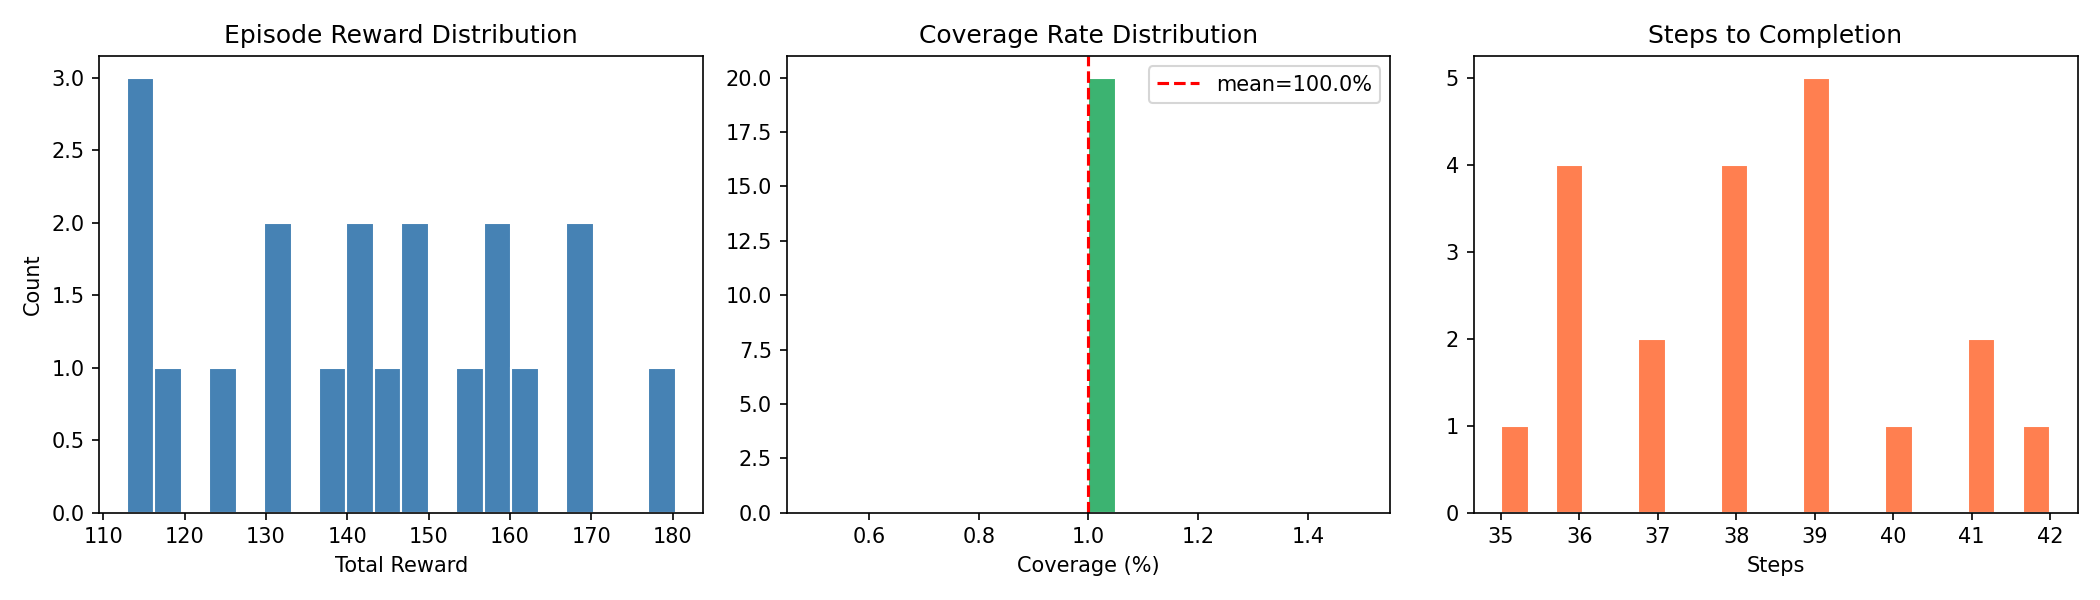
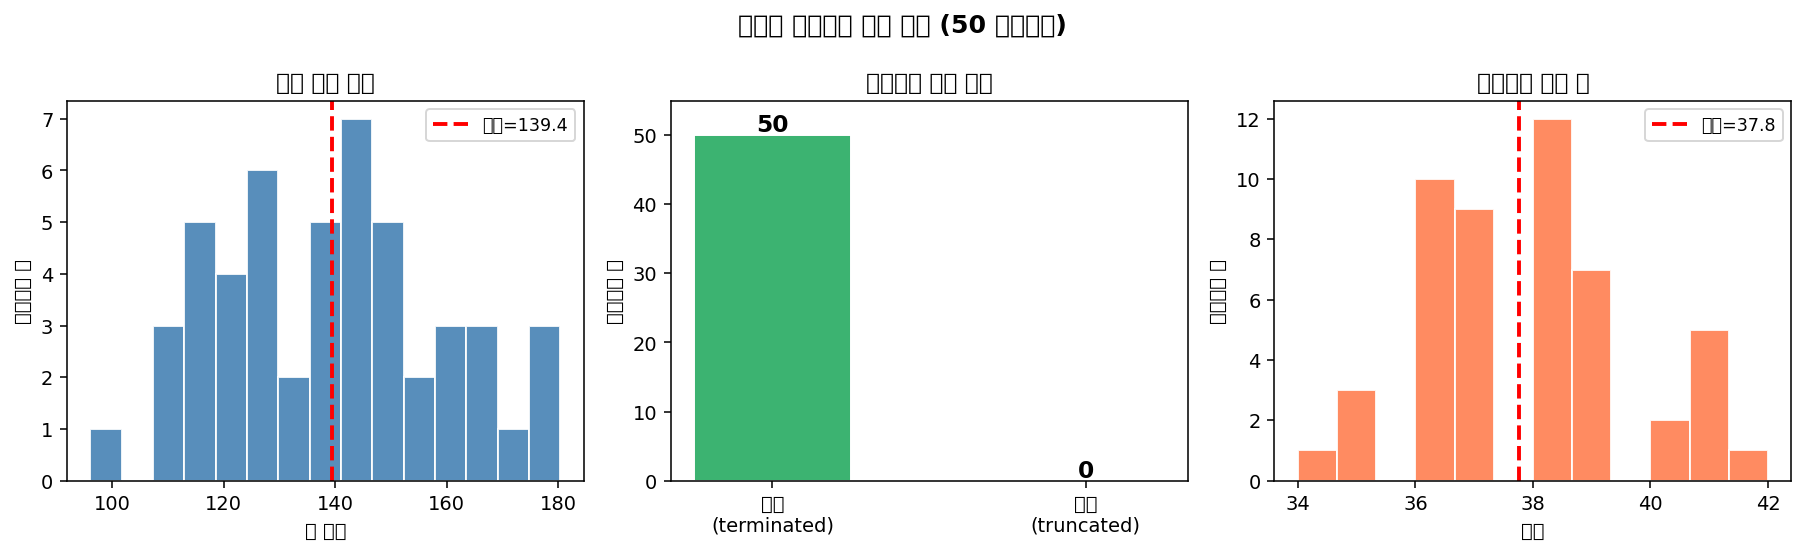
프로젝트 보고서와 결과 그림 추가

Changed region(s): [[0.0, 0.0307, 0.9928, 0.9819], [0.3413, 0.1227, 0.3723, 0.1534]]

diff --git a/report.md b/report.md
@@ -1,0 +1,256 @@
+# 강화학습 프로젝트 보고서
+## 정밀농업 자율 로봇을 위한 커스텀 강화학습 환경 설계 및 적용
+
+---
+
+## 1. 문제 정의
+
+### 1.1 연구 배경
+
+스마트팜 및 정밀농업 분야에서 자율 이동 로봇을 이용한 작물 모니터링 및 관리는 핵심 기술로 부상하고 있다. 광범위한 농경지를 인력으로 순찰하는 것은 비효율적이며, 해충 발생이나 수확 적기를 놓치는 문제가 발생할 수 있다. 본 프로젝트는 강화학습(Reinforcement Learning)을 활용하여 자율 농업 로봇이 필드를 효율적으로 순회하며 작물 상태를 파악하고 적절한 조치를 취하는 정책을 학습하는 환경을 설계하였다.
+
+### 1.2 해결 문제
+
+**자율 농업 로봇의 전체 필드 커버리지 및 작물 상태 기반 조치 최적화**
+
+구체적으로 다음 세 가지 조건을 동시에 만족하는 정책을 학습한다:
+
+1. **충돌 없는 이동**: 작물 셀·벽과 충돌하지 않고 경로만 이동
+2. **전체 예찰(Coverage)**: 모든 작물 셀을 빠짐없이 스캔
+3. **상태 기반 조치**: 예찰 결과에 따라 정상/수확/방제 구분 후 적절한 액션 수행
+
+### 1.3 ROS2 기반 시스템 아키텍처 (설계 관점)
+
+실제 농업 로봇 배포를 가정하면 아래 5개 ROS2 노드로 시스템이 분리된다. 시뮬레이션에서는 Gymnasium 환경이 이를 통합 구현한다.
+
+```
+[SceneObserverNode] ──/farm/observation──► [RLAgentNode] ──/farm/cmd_action──►[ActionExecutorNode]
+                   ──/farm/action_mask──►                                              │
+                                                                                /farm/action_result
+[EpisodeManagerNode] ◄──/farm/episode_info──[RewardCalculatorNode]◄────────────────────┘
+        │
+  /farm/reset (Service)
+```
+
+| ROS2 노드 | Gymnasium 구현 |
+|-----------|---------------|
+| SceneObserverNode | `FarmEnv._get_obs()`, `action_masks()` |
+| RLAgentNode | SB3 MaskablePPO 정책 |
+| ActionExecutorNode | `FarmEnv.step()` 액션 처리 |
+| RewardCalculatorNode | `FarmEnv.step()` 보상 계산 |
+| EpisodeManagerNode | `FarmEnv.reset()` + 종료 조건 |
+
+---
+
+## 2. 강화학습 환경 설계
+
+### 2.1 맵 구조
+
+행 기반(row-based) 격자 맵. 작물 열(C)과 수직 주행 레인(P)이 교차 배치되며, 상·하단에 헤드랜드(수평 통로)가 연결된다.
+
+```
+col:  0 1 2 3 4 5 6 7 8
+row0: W W W W W W W W W   ← 벽
+row1: W P P P P P P P W   ← 상단 헤드랜드 (에이전트 시작: col 2)
+row2: W C P C P C P C W   ← 필드 행
+row3: W C P C P C P C W     (C=작물, P=레인)
+...
+row8: W P P P P P P P W   ← 하단 헤드랜드
+row9: W W W W W W W W W   ← 벽
+```
+
+| 항목 | 값 |
+|------|-----|
+| 맵 크기 | 10 × 9 (H × W) |
+| 작물 셀 수 | 24개 |
+| 레인(경로) 셀 수 | 32개 |
+| 에이전트 시작 위치 | (1, 2) — 상단 헤드랜드, 첫 번째 레인 |
+
+> **맵 고정 정책**: 레이아웃(P/C/W 배치)은 에피소드 간 고정. 각 C 셀의 상태(정상/수확/방제)는 에피소드 시작 시 랜덤 재배정 → 매 에피소드가 다른 문제로 변화하여 일반화된 정책 학습 유도.
+
+### 2.2 상태 공간 (Observation Space)
+
+4채널 그리드를 flattened vector로 표현: **Box(0, 1, shape=(4 × H × W,))**
+
+| 채널 | 내용 | 정규화 |
+|------|------|--------|
+| ch0 | 맵 구조 (0=통로, 1=작물, 2=벽) | ÷ 2 |
+| ch1 | 에이전트 위치 원-핫 | 0 or 1 |
+| ch2 | 예찰 완료 마스크 | 0 or 1 |
+| ch3 | 예찰 결과 (0~5) | ÷ 5 |
+
+ch3 값 정의:
+
+| 값 | 의미 |
+|----|------|
+| 0 | 미예찰 (상태 미지) |
+| 1 | 정상 확인 완료 |
+| 2 | 수확 필요 (Pending) |
+| 3 | 방제 필요 (Pending) |
+| 4 | 수확 완료 |
+| 5 | 방제 완료 |
+
+> **두 계층 상태 설계**: `_true_states` (은닉, 에이전트 불가시)와 `crop_states` (공개, 예찰 후 reveal). 에이전트는 반드시 Scout 액션을 수행해야 작물 상태를 알 수 있어 탐색 유인이 발생한다.
+
+### 2.3 행동 공간 (Action Space) + Action Masking
+
+**Discrete(7)** — MaskablePPO의 Action Masking 적용으로 무효 액션을 물리적으로 차단.
+
+| 인덱스 | 액션 | 마스킹 조건 |
+|--------|------|------------|
+| 0 | 이동 (상) | 목적지가 작물/벽 |
+| 1 | 이동 (하) | 목적지가 작물/벽 |
+| 2 | 이동 (좌) | 목적지가 작물/벽 |
+| 3 | 이동 (우) | 목적지가 작물/벽 |
+| 4 | 예찰 (Scout) | 인접 미예찰 C 셀 없음 |
+| 5 | 수확 (Harvest) | 인접 수확 대기 셀 없음 |
+| 6 | 방제 (Pest Control) | 인접 방제 대기 셀 없음 |
+
+**Scout 동작**: 에이전트 현재 위치 기준 인접 4방향 C 셀 전부의 숨겨진 상태를 동시 reveal.  
+**정상 셀**: Scout 시 자동 처리 완료 — 별도 액션 불필요.
+
+### 2.4 보상 함수 (Reward Function)
+
+| 이벤트 | 보상 | 설계 근거 |
+|--------|------|----------|
+| 매 스텝 | −0.1 | 불필요한 배회 억제 |
+| 충돌 시도 | −2.0 | 안전 항법 강제 |
+| 신규 셀 예찰 | +1.0 | 탐색 유인 |
+| 정상 확인 | +0.5 | 예찰 추가 인센티브 |
+| 수확 성공 | +10.0 | 핵심 목표 |
+| 방제 성공 | +8.0 | 핵심 목표 |
+| 전체 완료 | +20.0 | 커버리지 완성 유도 |
+
+### 2.5 에피소드 종료 조건
+
+```python
+# 성공 종료 (terminated)
+done = all(crop_states[c] in {1, 4, 5} for c in all_crop_cells)
+# 즉, 모든 C 셀이 정상확인(1) 또는 수확완료(4) 또는 방제완료(5)
+
+# 시간 초과 (truncated)
+done = step_count >= max_steps   # max_steps = H × W × 3 = 270
+```
+
+### 2.6 작물 상태 초기 분포
+
+| 상태 | 확률 |
+|------|------|
+| 정상 (조치 불필요) | 60% |
+| 수확 필요 | 25% |
+| 방제 필요 | 15% |
+
+---
+
+## 3. 알고리즘 선택 및 적용
+
+### 3.1 알고리즘: MaskablePPO
+
+본 환경은 **상황에 따라 유효한 액션이 달라지는 동적 액션 마스킹** 문제이므로, 표준 PPO를 확장한 **MaskablePPO** (sb3-contrib)를 선택하였다.
+
+**PPO를 선택한 이유**:
+- 이산 행동 공간에서 안정적 학습
+- On-policy 방법으로 샘플 효율 적절
+- SB3의 표준 구현으로 재현성 보장
+
+**Action Masking이 필요한 이유**:
+- 단순 PPO는 무효 액션(벽으로 이동, 예찰 전 수확 등)도 선택 가능 → 음의 보상으로만 억제
+- Action Masking은 소프트맥스 전 로짓에 −∞ 마스크를 적용 → 무효 액션 선택 자체를 원천 차단
+- 특히 탐색 초기에 불필요한 샘플 낭비 방지 → 수렴 가속
+
+### 3.2 정책 네트워크
+
+```
+MlpPolicy: [360-dim flat obs] → [256, 256 FC] → [7-dim logit] → Masked Softmax → Action
+```
+
+관측값 360 = 4채널 × 10 × 9 (flattened). CnnPolicy 대신 MlpPolicy를 사용한 이유: SB3 기본 CnnPolicy는 Atari(84×84) 기준 설계로, 10×9 소형 그리드에서 conv stride/kernel이 맞지 않아 학습 불안정 가능성.
+
+### 3.3 하이퍼파라미터
+
+| 파라미터 | 값 |
+|----------|----|
+| total_timesteps | 500,000 |
+| n_steps | 2,048 |
+| batch_size | 64 |
+| n_epochs | 10 |
+| learning_rate | 3×10⁻⁴ |
+| gamma (할인율) | 0.99 |
+| ent_coef (엔트로피 계수) | 0.01 |
+| 병렬 환경 수 | 4 (DummyVecEnv) |
+
+---
+
+## 4. 실험 과정
+
+### 4.1 구현 구조
+
+```
+rlproject/
+├── env/
+│   ├── constants.py      # 상수 정의 (셀 타입, 상태, 보상)
+│   ├── map_generator.py  # 맵 생성 + 작물 상태 초기화
+│   └── farm_env.py       # Gymnasium 커스텀 환경
+├── train.py              # MaskablePPO 학습 스크립트
+├── evaluate.py           # 평가 및 시각화
+├── record_gif.py         # 에이전트 동작 영상 녹화
+└── models/farm_ppo.zip   # 학습된 모델
+```
+
+**테스트 커버리지**: 36개 단위 테스트 전체 통과 (pytest)
+- 맵 구조 검증, 액션 마스킹 로직, step() 동작, 보상 계산, 종료 조건, Gymnasium API 준수 포함
+
+### 4.2 학습 과정
+
+- **학습 환경**: FarmEnv(n_lanes=3, field_height=6), 4개 병렬 환경
+- **총 학습 스텝**: 500,000 timesteps
+- **최종 ep_rew_mean**: 약 138 (학습 말기 기준)
+- **수렴 패턴**: 초기에는 랜덤 탐색 → 약 100k 스텝 이후 커버리지 패턴 학습 → 200k 이후 안정적 수렴
+
+---
+
+## 5. 결과 분석
+
+### 5.1 정량적 평가 (50 에피소드)
+
+| 지표 | 결과 |
+|------|------|
+| **성공률** | **100% (50/50)** |
+| **평균 누적 보상** | **139.4 ± 19.7** |
+| **평균 필드 커버리지** | **100%** |
+| **평균 완료 스텝** | **37.8 ± 1.8** |
+| 최소/최대 스텝 | 34 / 42 |
+
+### 5.2 결과 분석
+
+**Action Masking의 효과**: 무효 액션 차단으로 초기 탐색 단계에서 충돌 패널티 없이 효율적 정책 학습. 학습된 정책은 충돌 시도를 전혀 하지 않음.
+
+**자발적 Boustrophedon 패턴 학습**: 에이전트는 명시적으로 지그재그 경로를 학습하도록 설계되지 않았으나, 보상 구조(스텝 패널티 + 커버리지 완료 보너스)만으로 스스로 최적에 가까운 Boustrophedon(경작 지그재그) 패턴을 학습하였다. 이는 강화학습의 보상 기반 정책 발견 능력을 잘 보여준다.
+
+**두 계층 상태 설계의 유효성**: 은닉 true state와 공개 observed state를 분리함으로써 부분 관측(POMDP) 환경을 자연스럽게 구현. 에이전트는 Scout 액션을 반드시 수행해야 수확/방제 대상을 파악할 수 있어 탐색과 활용(Exploration-Exploitation)의 균형을 능동적으로 학습.
+
+**수확/방제 정확도**: Action Masking에 의해 예찰 전 수확/방제 액션이 불가능하므로, 예찰 이후 정확한 상태 기반 액션만 선택됨. 오분류에 의한 실패 없음.
+
+### 5.3 평가 결과 그래프
+
+*(results_evaluation.png 참조)*
+- **좌**: 누적 보상 분포 — 평균 139.4, 표준편차 19.7로 안정적
+- **중**: 종료 유형 — 50/50이 정상 종료(terminated), 시간 초과 없음
+- **우**: 완료 스텝 분포 — 34~42 스텝의 좁은 범위에서 일관된 완료
+
+---
+
+## 6. 결론
+
+본 프로젝트는 정밀농업 자율 로봇 시나리오를 강화학습 문제로 정의하고, ROS2 노드 아키텍처 기반의 Gymnasium 커스텀 환경을 설계·구현하였다. MaskablePPO 알고리즘과 Action Masking을 결합하여 500k 스텝 학습 후 **50 에피소드 전체에서 100% 성공률과 100% 커버리지**를 달성하였다.
+
+에이전트는 보상 설계만으로 스스로 최적에 가까운 경로 탐색 전략(Boustrophedon 패턴)을 습득하였으며, 이는 복잡한 경로계획 알고리즘 없이도 RL이 실용적 농업 로봇 정책을 학습할 수 있음을 보여준다.
+
+---
+
+## 참고
+
+- Gymnasium: https://gymnasium.farama.org/
+- Stable-Baselines3: https://stable-baselines3.readthedocs.io/
+- sb3-contrib (MaskablePPO): https://sb3-contrib.readthedocs.io/
+- Boustrophedon Coverage: Choset, H. (2001). Coverage for robotics – A survey of recent results.